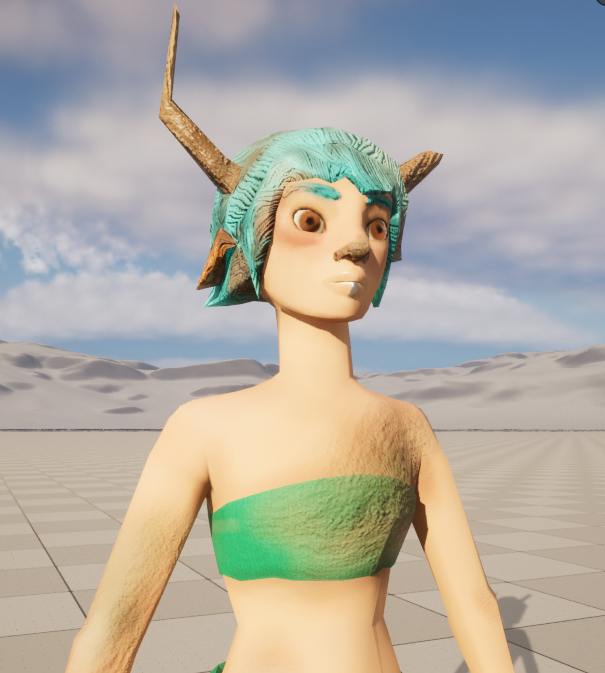
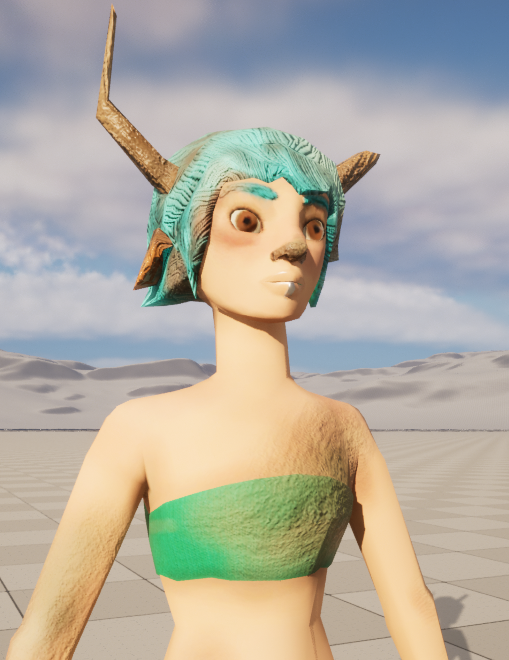
working on 3d and game design page

diff --git a/Gamedesign.html b/Gamedesign.html
@@ -51,52 +51,41 @@
     </nav>
 
     <div id="contant">
-        <h1 class="p-2">
-             game design illustartions 
-        </h1>
-        <h2> character concept arts for a fun board game: </h2>
+       
         <div class="container">
+             
             <div class="row p-2">
-                <div class="col-md-3 p-2">
-                    <img src="./images/Gamedesign/DRegg.jpg" alt="my-illustration" class="img-fluid rounded p-4 mypng" />
-                </div>
-
-                <div class="col-md-3 p-2">
-                    <img src="./images/Gamedesign/definitley-a-turkey.jpg" alt="my-illustration"
-                        class="img-fluid rounded p-4 mypng" />
-                </div>
-                <div class="col-md-3 p-2">
-                    <img src="./images/Gamedesign/foolish-turkey.jpg" alt="my-illustration" class="img-fluid rounded p-4 mypng" />
-                </div>
-                <div class="col-md-3 p-2">
-                    <img src="./images/Gamedesign/professor-feather.jpg" alt="my-illustration" class="img-fluid rounded p-4 mypng" />
-                </div>
-            </div>
-
-            <div class="row p-2">
-
-                <div class="col-md-3 p-2">
-                    <img src="./images/Gamedesign/captain-comb.jpg" alt="my-illustration" class="img-fluid rounded p-4 mypng" />
-                </div>
-                <div class="col-md-3 p-2">
-                    <img src="./images/Gamedesign/father-fowl.jpg" alt="my-illustration"
-                        class="img-fluid rounded p-4 mypng" />
-                </div>
-
-                <div class="col-md-3 p-2">
-                    <img src="./images/Gamedesign/muchbetter.jpg" alt="my-illustration"
-                        class="img-fluid rounded p-4 mypng" />
-                </div>
-                <div class="col-md-3 p-2">
-                    <img src="./images/Gamedesign/sirsnood.jpg" alt="my-illustration" class="img-fluid rounded p-4 mypng" />
-                </div>
-
-
-                <div class="row p-2">
-                    <h2 class="p-2"> character concept art:  </h2>
 
                     <div class="col-md-8 p-2">
-                        <img src="./images/Gamedesign/riely.jpg" alt="my-illustration"
+                        <img src="./images/Gamedesign/new-racrac.jpg" alt="my-illustration"
+                            class="img-fluid rounded p-4 mypng" />
+                    </div>
+                    <div class="col-md-4 p-2">
+                         <h2 class="p-2">
+                         2D Artworks for Games
+                         </h2>
+                    </div>
+
+                     <div class="col-md-4 p-2">
+
+                        <h2 class="p-2"> character concept art:  </h2>
+
+                            <img src="./images/Gamedesign/rose.jpg" alt="my-illustration"
+                                class="img-fluid rounded p-4 mypng" />
+                        </div>
+                        <div class="col-md-4 p-2">
+                            <img src="./images/Gamedesign/Flower.png" alt="my-illustration"
+                                class="img-fluid rounded p-4 mypng" />
+                        </div>
+                        <div class="col-md-4 p-2">
+                            <img src="./images/Gamedesign/exlosion.png" alt="my-illustration"
+                                class="img-fluid rounded p-4 mypng" />
+                        </div>
+
+             <div class="row p-2">
+                        
+                    <div class="col-md-8 p-2">
+                        <img src="./images/Gamedesign/turkeys.png" alt="my-illustration"
                             class="img-fluid rounded p-4 mypng" />
                     </div>
                     <div class="col-md-4 p-2">
@@ -104,9 +93,18 @@
                             class="img-fluid rounded p-4 mypng" />
                     </div>
 
-                    <div class="row p-2">
+                <div class="row p-2">
 
-                        <h2 class="p-2"> Game scenes and object designs : </h2>
+                    <div class="col-md-6 p-2">
+                        <img src="./images/Gamedesign/riely.jpg" alt="my-illustration"
+                            class="img-fluid rounded p-4 mypng" />
+                    </div>
+                    <div class="col-md-6 p-2">
+                        <img src="./images/Gamedesign/tale-riley.png" alt="my-illustration"
+                            class="img-fluid rounded p-4 mypng" />
+                    </div>
+
+                    <div class="row p-2">
 
                         <div class="col-md-6 p-2">
                             <img src="./images/Gamedesign/GameFrame.jpg" alt="my-illustration"

diff --git a/3D.html b/3D.html
@@ -55,7 +55,7 @@
         <div class="container">
             <div class="row p-5">
                 <div class="col-md-6 p-2">
-                     <img src="./images/3D-art/env1.png" alt="my-illustration" class="img-fluid rounded p-5 mypng" />
+                     <img src="./images/3D-art/env8.png" alt="my-illustration" class="img-fluid rounded p-4 mypng" />
                 </div>
                 <div class="col-md-6 p-2">
                      <h2 class="mb-3"> 3D works</h2>
@@ -69,22 +69,75 @@
                 </div>
             </div>
 
+            <div class="row p-5">
+
+                 <div class="col-md-4 p-2">
+                    <h2 class="mb-3"> ZBrush</h2>
+                    <p> Created a sculpting project in ZBrush, 
+                        where I learned the fundamentals of digital sculpting, 
+                        detailing, and preparing assets for use in a game engine.
+                    </p>
+                </div>
+                <div class="col-md-4 p-2">
+                    <img src="./images/3D-art/zbrush1.png" alt="my-illustration"
+                        class="img-fluid rounded p-4 mypng" />
+                </div>
+                <div class="col-md-4 p-2">
+                    <img src="./images/3D-art/zbrush2.png" alt="my-illustration" class="img-fluid rounded p-4 mypng" />
+                </div>
+
+            </div>
 
             <div class="row p-5">
 
                 <div class="col-md-4 p-2">
+                
+                    <img src="./images/3D-art/env0.png" alt="my-illustration"
+                        class="img-fluid rounded p-4 mypng" />
+                </div>
+                <div class="col-md-4 p-2">
+                    <img src="./images/3D-art/env1.png" alt="my-illustration" class="img-fluid rounded p-4 mypng" />
+                </div>
+
+                <div class="col-md-4 p-2">
+                    <h2 class="mb-3"> Environment Design </h2>
+                    <p>Created a 3D environment inspired by Little Nightmares II for learning purposes 
+                        (non-commercial), using the style as reference while making and 
+                        modifying my own textures and assets.
+                    </p>
+                </div>
+                <div class="col-md-4 p-2">
+                
+                    <img src="./images/3D-art/env9.png" alt="my-illustration"
+                        class="img-fluid rounded p-4 mypng" />
+                </div>
+                <div class="col-md-4 p-2">
+                    <img src="./images/3D-art/env5.png" alt="my-illustration" class="img-fluid rounded p-4 mypng" />
+                </div>
+
+                <div class="col-md-4 p-2">
+                    <img src="./images/3D-art/env4.png" alt="my-illustration" class="img-fluid rounded p-4 mypng" />
+                </div>
+
+            </div>
+            <div class="row p-5">
+
+                <div class="col-md-4 p-2">
+                      <h2 class="mb-3"> Character Model </h2>
                     <img src="./images/3D-art/temisa0.png" alt="my-illustration"
                         class="img-fluid rounded p-4 mypng" />
                 </div>
                 <div class="col-md-4 p-2">
-                    <img src="./images/3D-art/temisa1.png" alt="my-illustration" class="img-fluid rounded p-4 mypng" />
-                </div>
-
-                <div class="col-md-4 p-2">
                     <img src="./images/3D-art/temisa2.png" alt="my-illustration" class="img-fluid rounded p-4 mypng" />
                 </div>
 
+                <div class="col-md-4 p-2">
+                    <img src="./images/3D-art/temisa1.png" alt="my-illustration" class="img-fluid rounded p-4 mypng" />
+                </div>
+
             </div>
+
+             
         </div>
 
         <footer>
